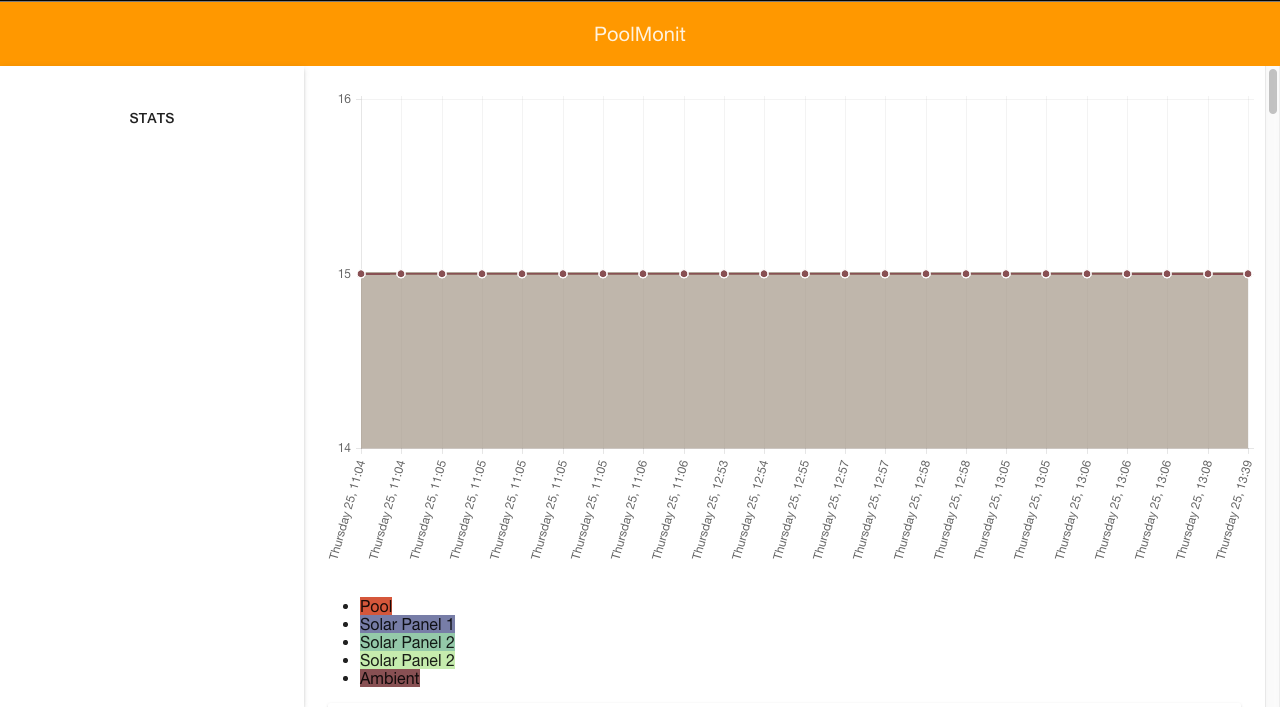
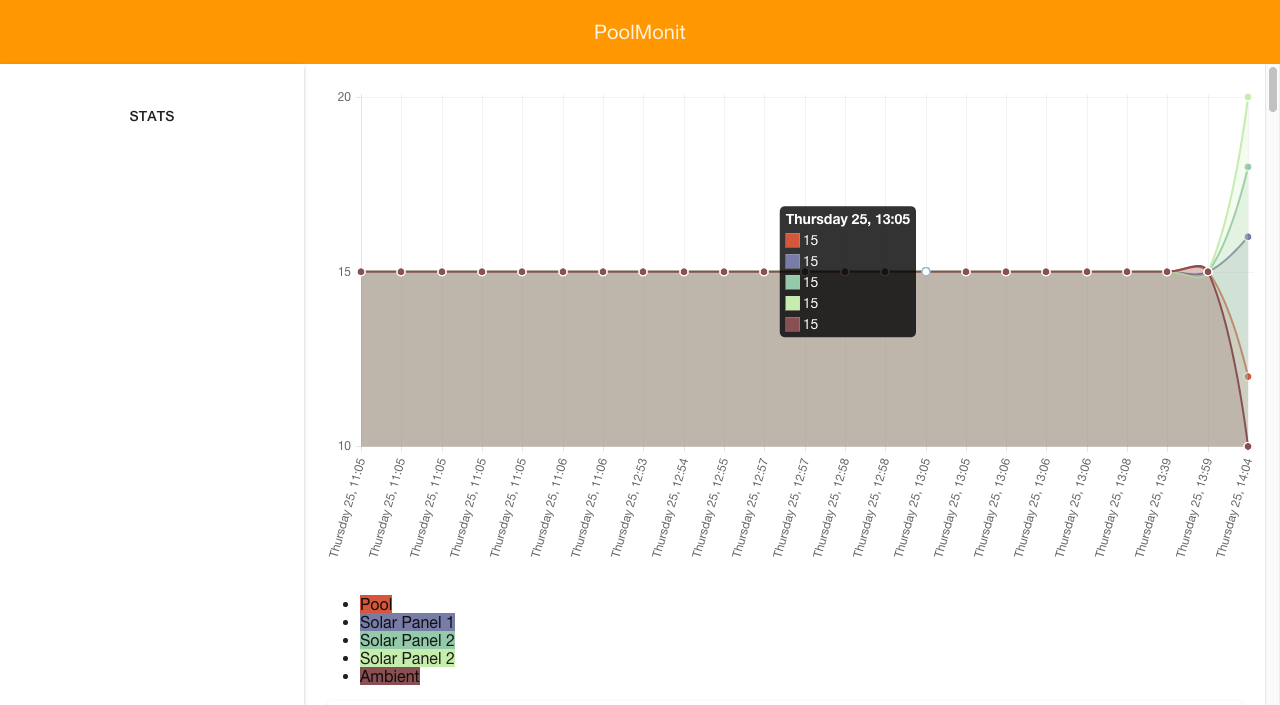
Different SS

diff --git a/scripts/test.py b/scripts/test.py
@@ -1,8 +1,8 @@
-pooltemp = '15'
-syst1temp = '15'
-syst2temp = '15'
-syst3temp = '15'
-ambianttemp = '15'
+pooltemp = '12'
+syst1temp = '16'
+syst2temp = '18'
+syst3temp = '20'
+ambianttemp = '10'
 
 systemstats = '{"pool": ' + str(pooltemp) + ', "ambient": ' + str(ambianttemp) + \
                   ',"sol1": ' + str(syst1temp) + \
